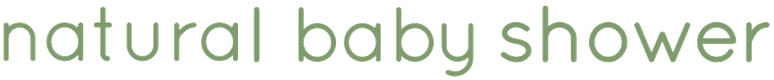
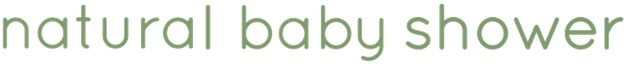
Tighten brand tabs and keep NBS in the same window
Shorter tabs, one logo height, desktop bar hangs left at a third of
the width. The NBS tab no longer opens a new window.

diff --git a/assets/custom.css b/assets/custom.css
@@ -2755,38 +2755,35 @@ klarna-placement {
   align-items: center;
   display: flex;
   flex: 1 1 0;
-  height: 40px;
+  height: 28px;
   justify-content: center;
   min-width: 0;
-  padding: 6px 12px;
+  padding: 4px 8px;
   text-decoration: none;
 }
 
 .brand-tabs__tab--nbs {
   background-color: #f9f8f5;
-  border-radius: 10px 10px 0 0;
+  border-radius: 8px 8px 0 0;
 }
 
 .brand-tabs__tab--merino {
   background-color: #dcd4c9;
-  border-radius: 10px 10px 0 0;
+  border-radius: 8px 8px 0 0;
 }
 
 .brand-tabs__tab--babiators {
   background-color: #2e61ae;
-  border-radius: 10px 10px 0 0;
+  border-radius: 8px 8px 0 0;
 }
 
 .brand-tabs__logo {
   display: block;
-  height: 18px;
-  max-width: 100%;
+  height: 14px;
+  max-width: 92%;
   object-fit: contain;
+  object-position: center;
   width: auto;
-}
-
-.brand-tabs__tab--nbs .brand-tabs__logo {
-  height: 22px;
 }
 
 .brand-tabs__tab:hover {
@@ -2799,16 +2796,16 @@ klarna-placement {
 }
 
 @media only screen and (min-width: 769px) {
+  .brand-tabs {
+    width: 33.333%;
+  }
+
   .brand-tabs__tab {
-    height: 46px;
-    padding: 8px 20px;
+    height: 32px;
+    padding: 4px 12px;
   }
 
   .brand-tabs__logo {
-    height: 22px;
-  }
-
-  .brand-tabs__tab--nbs .brand-tabs__logo {
-    height: 26px;
+    height: 16px;
   }
 }
